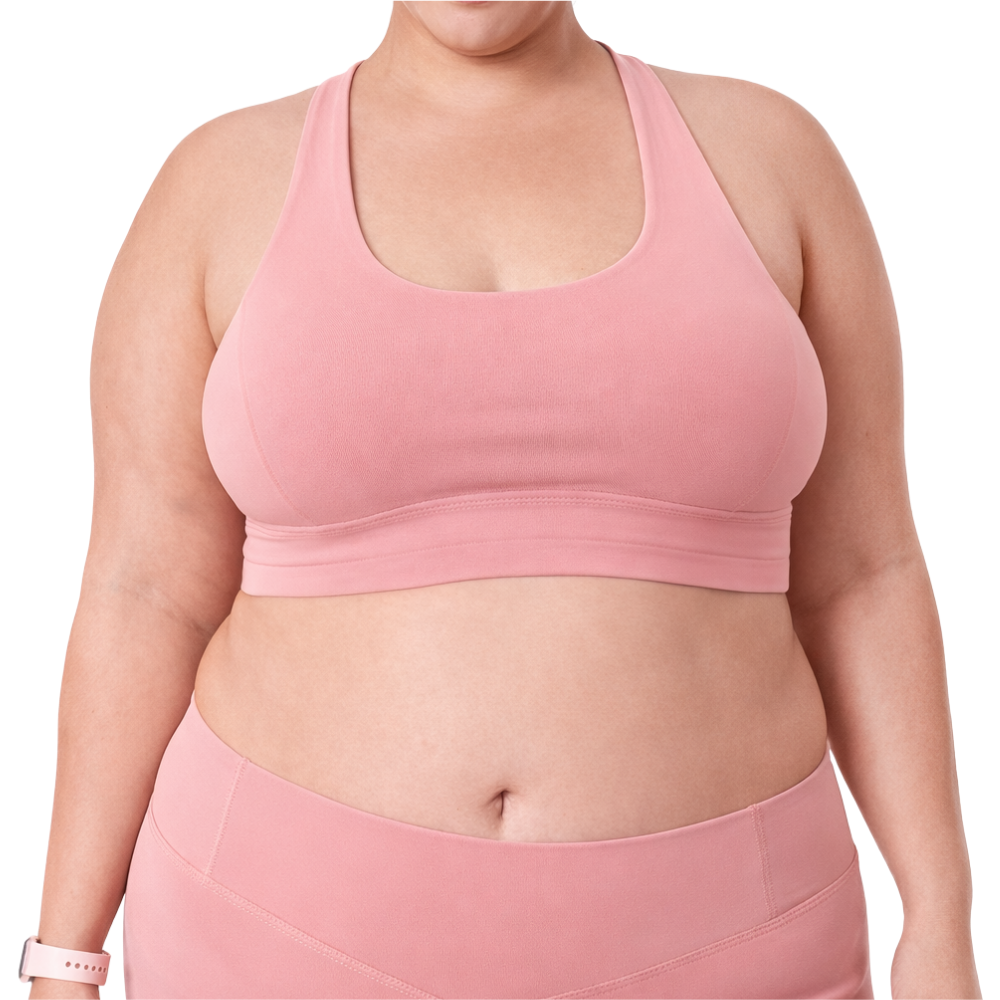
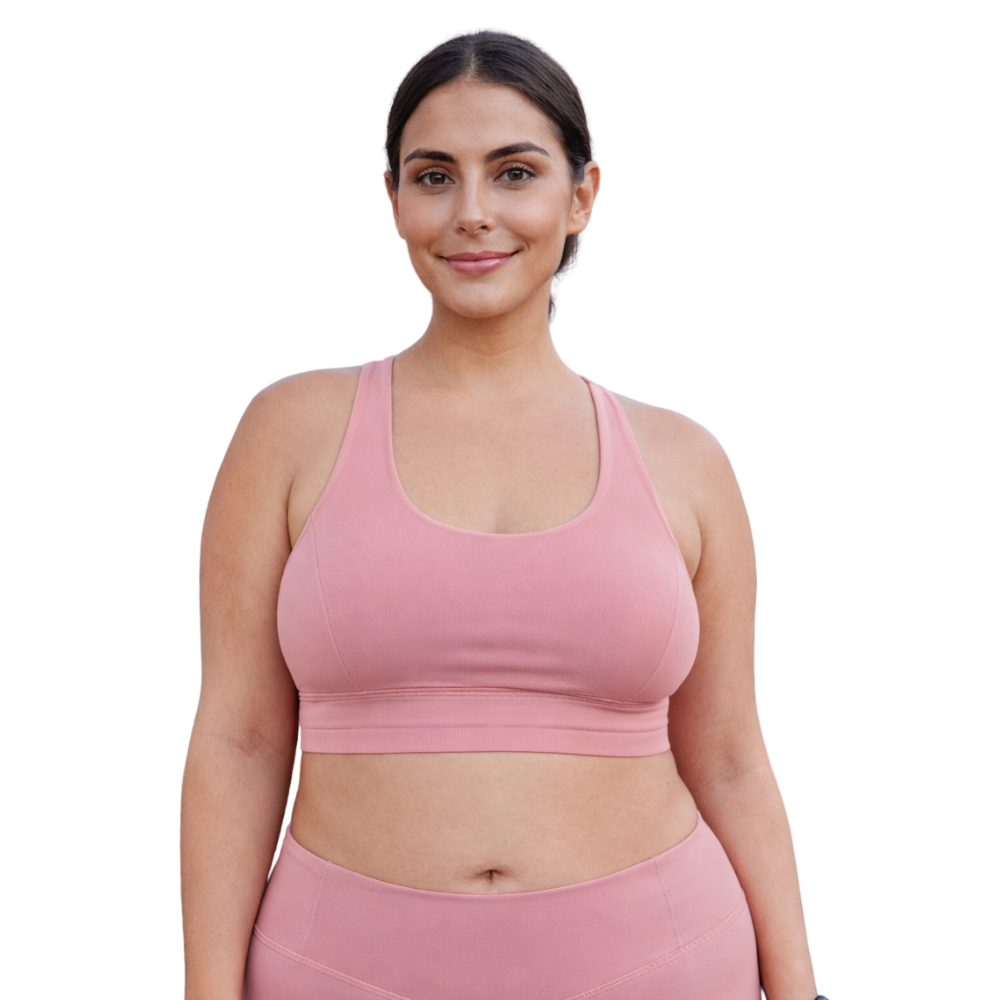
Refine quiz animations and image layouts
Shorten and snappify quiz slide animations (smaller translate offsets, faster durations and new easing) and reduce navigation timeouts in the quiz step flow. Replace several before/after image wrappers with simpler full-coverage image layouts and add a subtle shadow to the arrow indicator for visual consistency. Rework PersonalSummary: adjust BMI gauge needle math and SVG labels, simplify card layout to a grid, and switch the summary image to an inline img. Replace three body-type PNGs.

diff --git a/src/components/quiz/PersonalSummary.tsx b/src/components/quiz/PersonalSummary.tsx
@@ -21,28 +21,22 @@ function getActivityLabel(activityLevel: string) {
 }
 
 function BMIGauge({ bmi }: { bmi: number }) {
-  // Map BMI to needle rotation
-  // Arc spans from -90° (left/underweight) to +90° (right/obese)
-  // Categories: <18.5 underweight | 18.5-25 normal | 25-30 overweight | 30+ obese
-  // Each category gets equal arc space (45°)
+  // Four equal arc zones (each 45°), needle inset 10° into each zone
+  // so the needle is always clearly inside the correct color band
   const rotation = useMemo(() => {
     const clampedBMI = Math.max(15, Math.min(40, bmi));
     if (clampedBMI < 18.5) {
-      // Underweight zone: -90° to -45° (far left, green)
-      const pct = (clampedBMI - 15) / (18.5 - 15);
-      return -90 + pct * 45;
+      const pct = (clampedBMI - 15) / 3.5;
+      return -80 + pct * 35;            // -80° to -45°
     } else if (clampedBMI < 25) {
-      // Normal zone: -45° to 0° (left-center, lime)
-      const pct = (clampedBMI - 18.5) / (25 - 18.5);
-      return -45 + pct * 45;
+      const pct = (clampedBMI - 18.5) / 6.5;
+      return -35 + pct * 25;            // -35° to -10°
     } else if (clampedBMI < 30) {
-      // Overweight zone: 0° to 45° (right-center, orange)
-      const pct = (clampedBMI - 25) / (30 - 25);
-      return pct * 45;
+      const pct = (clampedBMI - 25) / 5;
+      return 10 + pct * 25;             // +10° to +35°
     } else {
-      // Obese zone: 45° to 90° (far right, red)
-      const pct = Math.min(1, (clampedBMI - 30) / (40 - 30));
-      return 45 + pct * 45;
+      const pct = Math.min(1, (clampedBMI - 30) / 10);
+      return 55 + pct * 35;             // +55° to +90°
     }
   }, [bmi]);
 
@@ -61,17 +55,16 @@ function BMIGauge({ bmi }: { bmi: number }) {
         }
       `}</style>
       <svg viewBox="0 0 160 100" className="w-36 h-auto mx-auto mt-3 overflow-visible">
-        {/* Background arc segments mapped to BMI categories */}
-        {/* Underweight: green - far left */}
+        {/* Underweight: green  (-90° to -45°) */}
         <path d="M 15 80 A 65 65 0 0 1 34 35" fill="none" stroke="#22c55e" strokeWidth="14" strokeLinecap="round" />
-        {/* Normal: lime - left center */}
+        {/* Normal: lime  (-45° to 0°) */}
         <path d="M 38 30 A 65 65 0 0 1 80 15" fill="none" stroke="#84cc16" strokeWidth="14" strokeLinecap="round" />
-        {/* Overweight: orange - right center */}
+        {/* Overweight: orange  (0° to +45°) */}
         <path d="M 84 15 A 65 65 0 0 1 126 35" fill="none" stroke="#f97316" strokeWidth="14" strokeLinecap="round" />
-        {/* Obese: red - far right */}
+        {/* Obese: red  (+45° to +90°) */}
         <path d="M 130 40 A 65 65 0 0 1 145 80" fill="none" stroke="#ef4444" strokeWidth="14" strokeLinecap="round" />
 
-        {/* Needle - animates to correct BMI position */}
+        {/* Needle */}
         <g className={animId}>
           <line x1="80" y1="80" x2="80" y2="25" stroke="#1f2937" strokeWidth="3" strokeLinecap="round" />
           <circle cx="80" cy="80" r="6" fill="#1f2937" />
@@ -122,9 +115,9 @@ export function PersonalSummary() {
 
   return (
     <div className="max-w-sm mx-auto">
-      <div className="rounded-2xl overflow-hidden bg-white border border-purple-100 shadow-sm relative">
+      <div className="rounded-2xl bg-white border border-purple-100 shadow-sm">
         {/* BMI Section - Warm background */}
-        <div className="bg-[#FFF8DC] px-5 pt-5 pb-6 text-center">
+        <div className="bg-[#FFF8DC] rounded-t-2xl px-5 pt-5 pb-6 text-center">
           <p className="text-xs font-semibold text-gray-500 uppercase tracking-wide mb-1">
             Body Mass Index (BMI)
           </p>
@@ -140,9 +133,9 @@ export function PersonalSummary() {
         </div>
 
         {/* Info items + Person image */}
-        <div className="flex items-end">
+        <div className="grid grid-cols-[1fr_120px] sm:grid-cols-[1fr_150px] items-center">
           {/* Left side - info items */}
-          <div className="flex-1 p-3 sm:p-5 space-y-3 sm:space-y-4">
+          <div className="p-3 sm:p-5 space-y-3 sm:space-y-4">
             <div className="flex items-center gap-2 sm:gap-3">
               <div className="w-8 h-8 sm:w-9 sm:h-9 rounded-full bg-pink-50 flex items-center justify-center flex-shrink-0">
                 <span className="text-base sm:text-lg">🌸</span>
@@ -184,13 +177,11 @@ export function PersonalSummary() {
           </div>
 
           {/* Right side - person image */}
-          <div className="relative w-32 sm:w-44 flex-shrink-0">
-            <Image
+          <div className="self-end">
+            <img
               src={summaryImage}
               alt="Personal summary"
-              width={200}
-              height={280}
-              className="object-contain object-bottom"
+              className="w-full h-auto block"
             />
           </div>
         </div>

diff --git a/src/app/result-offer/page.tsx b/src/app/result-offer/page.tsx
@@ -152,21 +152,19 @@ export default function OfferPage() {
               </div>
               
               {/* Before/After Images based on age */}
-              <div className="relative flex items-end justify-center px-4 pt-4 pb-2 bg-gradient-to-b from-[#d4e4f7] to-white">
+              <div className="relative flex">
                 {/* Before */}
-                <div className="flex-1 flex justify-center">
-                  <div className="relative w-32 sm:w-40 aspect-[3/4]">
-                    <img
-                      src={TRANSFORMATIONS[getMatchingAgeIndex(userData.age)].before}
-                      alt="Before transformation"
-                      className="w-full h-full object-contain object-bottom"
-                    />
-                  </div>
+                <div className="flex-1 aspect-[3/4] overflow-hidden">
+                  <img
+                    src={TRANSFORMATIONS[getMatchingAgeIndex(userData.age)].before}
+                    alt="Before transformation"
+                    className="w-full h-full object-cover object-top"
+                  />
                 </div>
                 
                 {/* Arrow indicator */}
                 <div className="absolute left-1/2 top-1/2 -translate-x-1/2 -translate-y-1/2 z-10">
-                  <div className="bg-purple-100 rounded-full p-2">
+                  <div className="bg-purple-100 rounded-full p-2 shadow-sm">
                     <svg width="20" height="20" viewBox="0 0 24 24" fill="none" className="text-purple-500">
                       <path d="M9 6L15 12L9 18" stroke="currentColor" strokeWidth="2.5" strokeLinecap="round" strokeLinejoin="round"/>
                       <path d="M15 6L21 12L15 18" stroke="currentColor" strokeWidth="2.5" strokeLinecap="round" strokeLinejoin="round" opacity="0.5"/>
@@ -175,14 +173,12 @@ export default function OfferPage() {
                 </div>
                 
                 {/* After */}
-                <div className="flex-1 flex justify-center">
-                  <div className="relative w-32 sm:w-40 aspect-[3/4]">
-                    <img
-                      src={TRANSFORMATIONS[getMatchingAgeIndex(userData.age)].after}
-                      alt="After transformation"
-                      className="w-full h-full object-contain object-bottom"
-                    />
-                  </div>
+                <div className="flex-1 aspect-[3/4] overflow-hidden">
+                  <img
+                    src={TRANSFORMATIONS[getMatchingAgeIndex(userData.age)].after}
+                    alt="After transformation"
+                    className="w-full h-full object-cover object-top"
+                  />
                 </div>
               </div>
 

diff --git a/src/app/summary/page.tsx b/src/app/summary/page.tsx
@@ -150,22 +150,21 @@ export default function SummaryPage() {
           </div>
           
           {/* Before/After Images with arrow */}
-          <div className="relative flex items-stretch justify-center bg-gradient-to-b from-gray-50 to-white">
+          <div className="relative flex items-end">
             {/* Before */}
-            <div className="flex-1 flex items-end justify-center px-2 pt-4 pb-2">
-              <div className="relative w-28 sm:w-36 h-40 sm:h-48">
-                <Image
-                  src={transformation.before}
-                  alt="Before transformation"
-                  fill
-                  className="object-contain object-bottom"
-                />
-              </div>
+            <div className="flex-1">
+              <Image
+                src={transformation.before}
+                alt="Before transformation"
+                width={400}
+                height={533}
+                className="w-full h-auto"
+              />
             </div>
             
             {/* Arrow indicator */}
             <div className="absolute left-1/2 top-1/2 -translate-x-1/2 -translate-y-1/2 z-10">
-              <div className="bg-purple-100 rounded-full p-2">
+              <div className="bg-purple-100 rounded-full p-2 shadow-sm">
                 <svg width="24" height="24" viewBox="0 0 24 24" fill="none" className="text-purple-500">
                   <path d="M9 6L15 12L9 18" stroke="currentColor" strokeWidth="2.5" strokeLinecap="round" strokeLinejoin="round"/>
                   <path d="M15 6L21 12L15 18" stroke="currentColor" strokeWidth="2.5" strokeLinecap="round" strokeLinejoin="round" opacity="0.5"/>
@@ -174,15 +173,14 @@ export default function SummaryPage() {
             </div>
             
             {/* After */}
-            <div className="flex-1 flex items-end justify-center px-2 pt-4 pb-2">
-              <div className="relative w-28 sm:w-36 h-40 sm:h-48">
-                <Image
-                  src={transformation.after}
-                  alt="After transformation"
-                  fill
-                  className="object-contain object-bottom"
-                />
-              </div>
+            <div className="flex-1">
+              <Image
+                src={transformation.after}
+                alt="After transformation"
+                width={400}
+                height={533}
+                className="w-full h-auto"
+              />
             </div>
           </div>
 

diff --git a/src/app/globals.css b/src/app/globals.css
@@ -259,69 +259,69 @@ body {
   animation: scroll-right 30s linear infinite;
 }
 
-/* Quiz page slide transitions - smooth native-feel */
+/* Quiz page slide transitions - snappy native-feel */
 @keyframes quiz-slide-in-right {
   0% {
     opacity: 0;
-    transform: translateX(60px) scale(0.98);
+    transform: translateX(24px);
   }
   100% {
     opacity: 1;
-    transform: translateX(0) scale(1);
+    transform: translateX(0);
   }
 }
 
 @keyframes quiz-slide-in-left {
   0% {
     opacity: 0;
-    transform: translateX(-60px) scale(0.98);
+    transform: translateX(-24px);
   }
   100% {
     opacity: 1;
-    transform: translateX(0) scale(1);
+    transform: translateX(0);
   }
 }
 
 @keyframes quiz-slide-out-left {
   0% {
     opacity: 1;
-    transform: translateX(0) scale(1);
+    transform: translateX(0);
   }
   100% {
     opacity: 0;
-    transform: translateX(-40px) scale(0.97);
+    transform: translateX(-20px);
   }
 }
 
 @keyframes quiz-slide-out-right {
   0% {
     opacity: 1;
-    transform: translateX(0) scale(1);
+    transform: translateX(0);
   }
   100% {
     opacity: 0;
-    transform: translateX(40px) scale(0.97);
+    transform: translateX(20px);
   }
 }
 
 .quiz-slide-enter {
-  animation: quiz-slide-in-right 0.4s cubic-bezier(0.22, 1, 0.36, 1) forwards;
+  animation: quiz-slide-in-right 0.26s cubic-bezier(0.25, 0.46, 0.45, 0.94) forwards;
   will-change: transform, opacity;
 }
 
 .quiz-slide-enter-back {
-  animation: quiz-slide-in-left 0.4s cubic-bezier(0.22, 1, 0.36, 1) forwards;
+  animation: quiz-slide-in-left 0.26s cubic-bezier(0.25, 0.46, 0.45, 0.94) forwards;
   will-change: transform, opacity;
 }
 
 .quiz-slide-exit {
-  animation: quiz-slide-out-left 0.25s cubic-bezier(0.22, 1, 0.36, 1) forwards;
+  animation: quiz-slide-out-left 0.15s cubic-bezier(0.25, 0.46, 0.45, 0.94) forwards;
   will-change: transform, opacity;
   pointer-events: none;
 }
 
 .quiz-slide-exit-back {
-  animation: quiz-slide-out-right 0.25s cubic-bezier(0.22, 1, 0.36, 1) forwards;
+  animation: quiz-slide-out-right 0.15s cubic-bezier(0.25, 0.46, 0.45, 0.94) forwards;
   will-change: transform, opacity;
   pointer-events: none;
 }

diff --git a/src/app/quiz/[gender]/[step]/page.tsx b/src/app/quiz/[gender]/[step]/page.tsx
@@ -101,7 +101,7 @@ export default function QuizStepPage() {
       } else {
         router.push(`/quiz/${gender}/${urlStep + 1}`);
       }
-    }, 220);
+    }, 150);
   };
 
   const handleBack = () => {
@@ -111,7 +111,7 @@ export default function QuizStepPage() {
       setIsExiting(true);
       setTimeout(() => {
         router.push(`/quiz/${gender}/${urlStep - 1}`);
-      }, 220);
+      }, 150);
     }
   };
 
@@ -120,7 +120,6 @@ export default function QuizStepPage() {
       const kgValue = Number(value);
       if (!Number.isNaN(kgValue)) {
         setResponse(question.id, kgValue);
-        // Also store the lbs version for legacy support in some components
         setResponse(`${question.id}-lbs`, Math.round(kgToLbs(kgValue)));
       }
     } else {
@@ -134,8 +133,8 @@ export default function QuizStepPage() {
         setIsExiting(true);
         setTimeout(() => {
           router.push(`/quiz/${gender}/${urlStep + 1}`);
-        }, 220);
-      }, 150);
+        }, 150);
+      }, 80);
     }
 
   };
